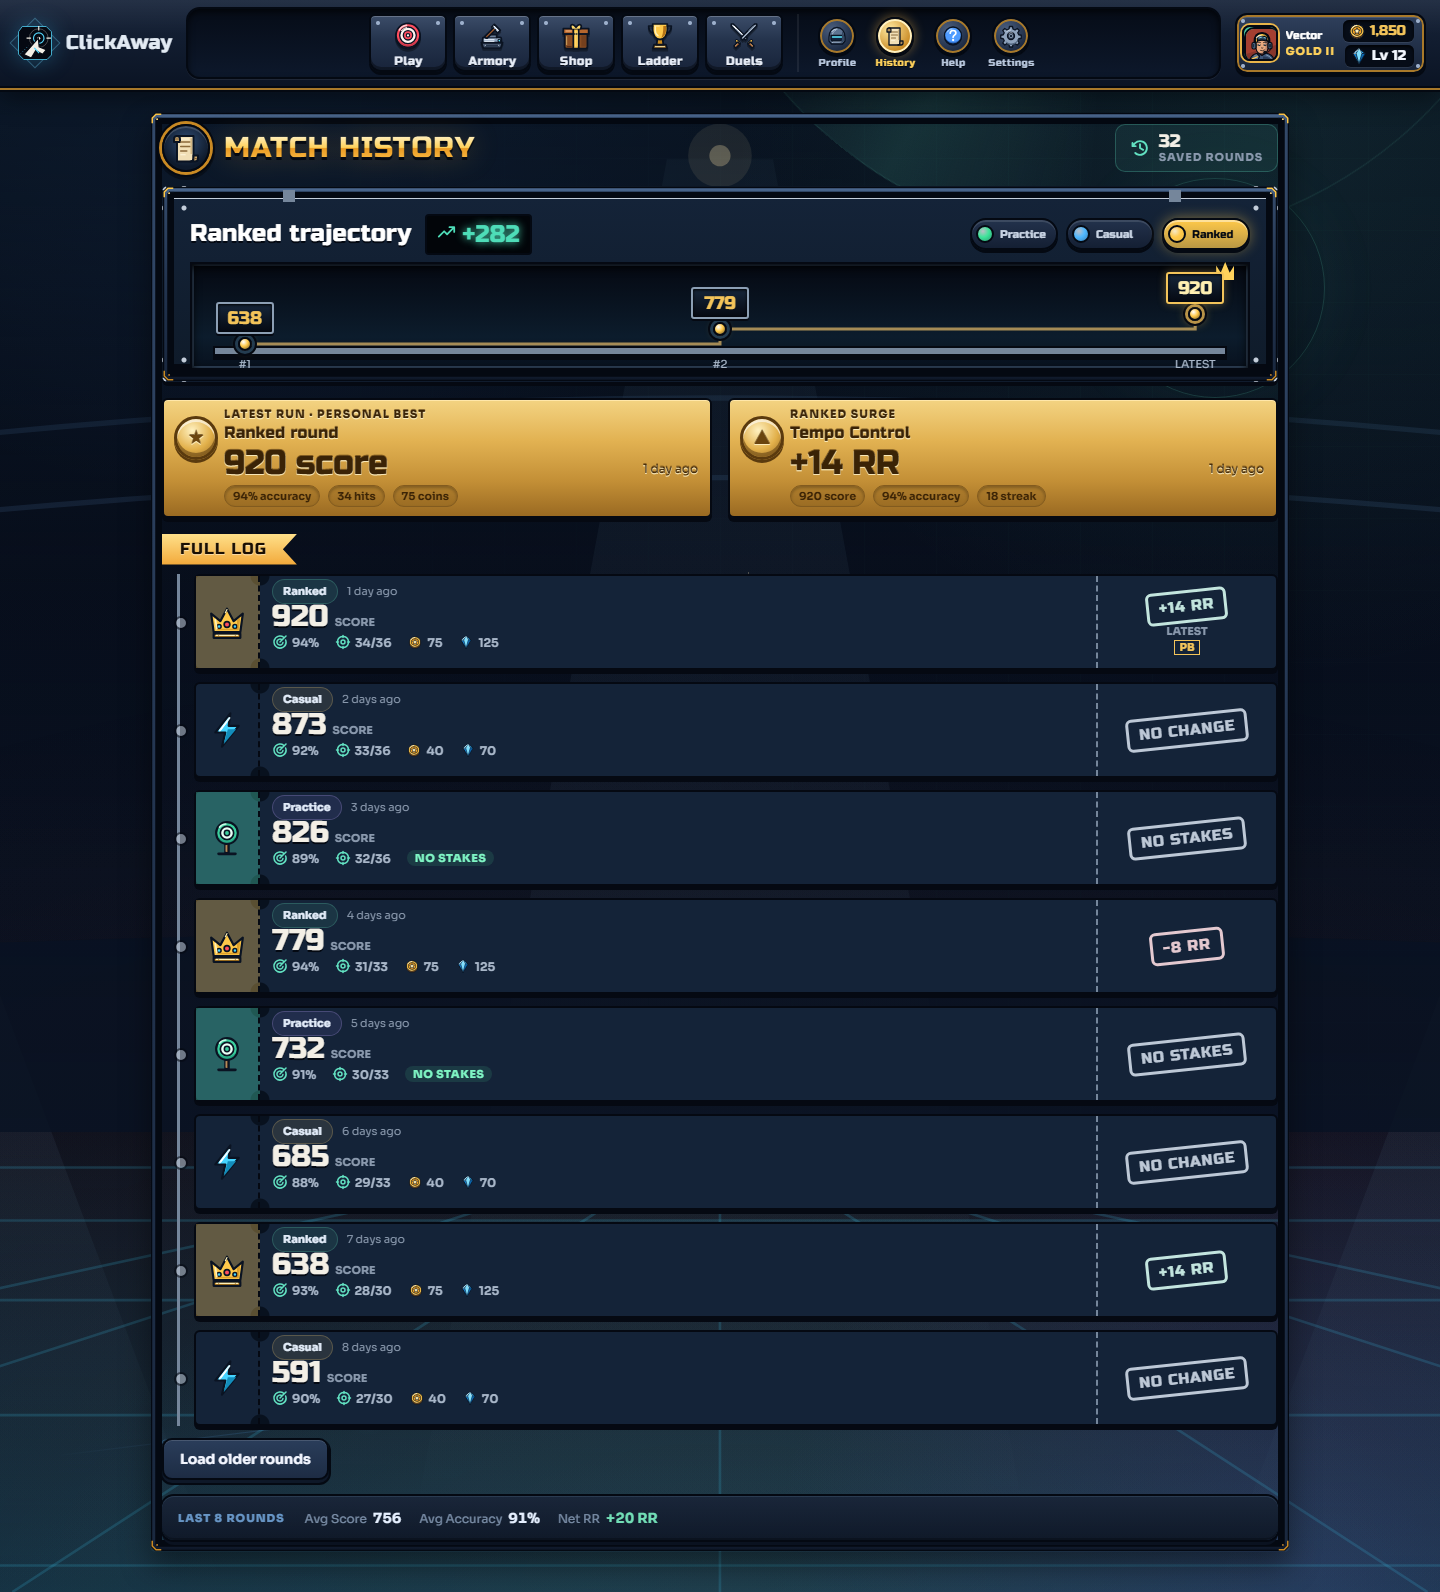
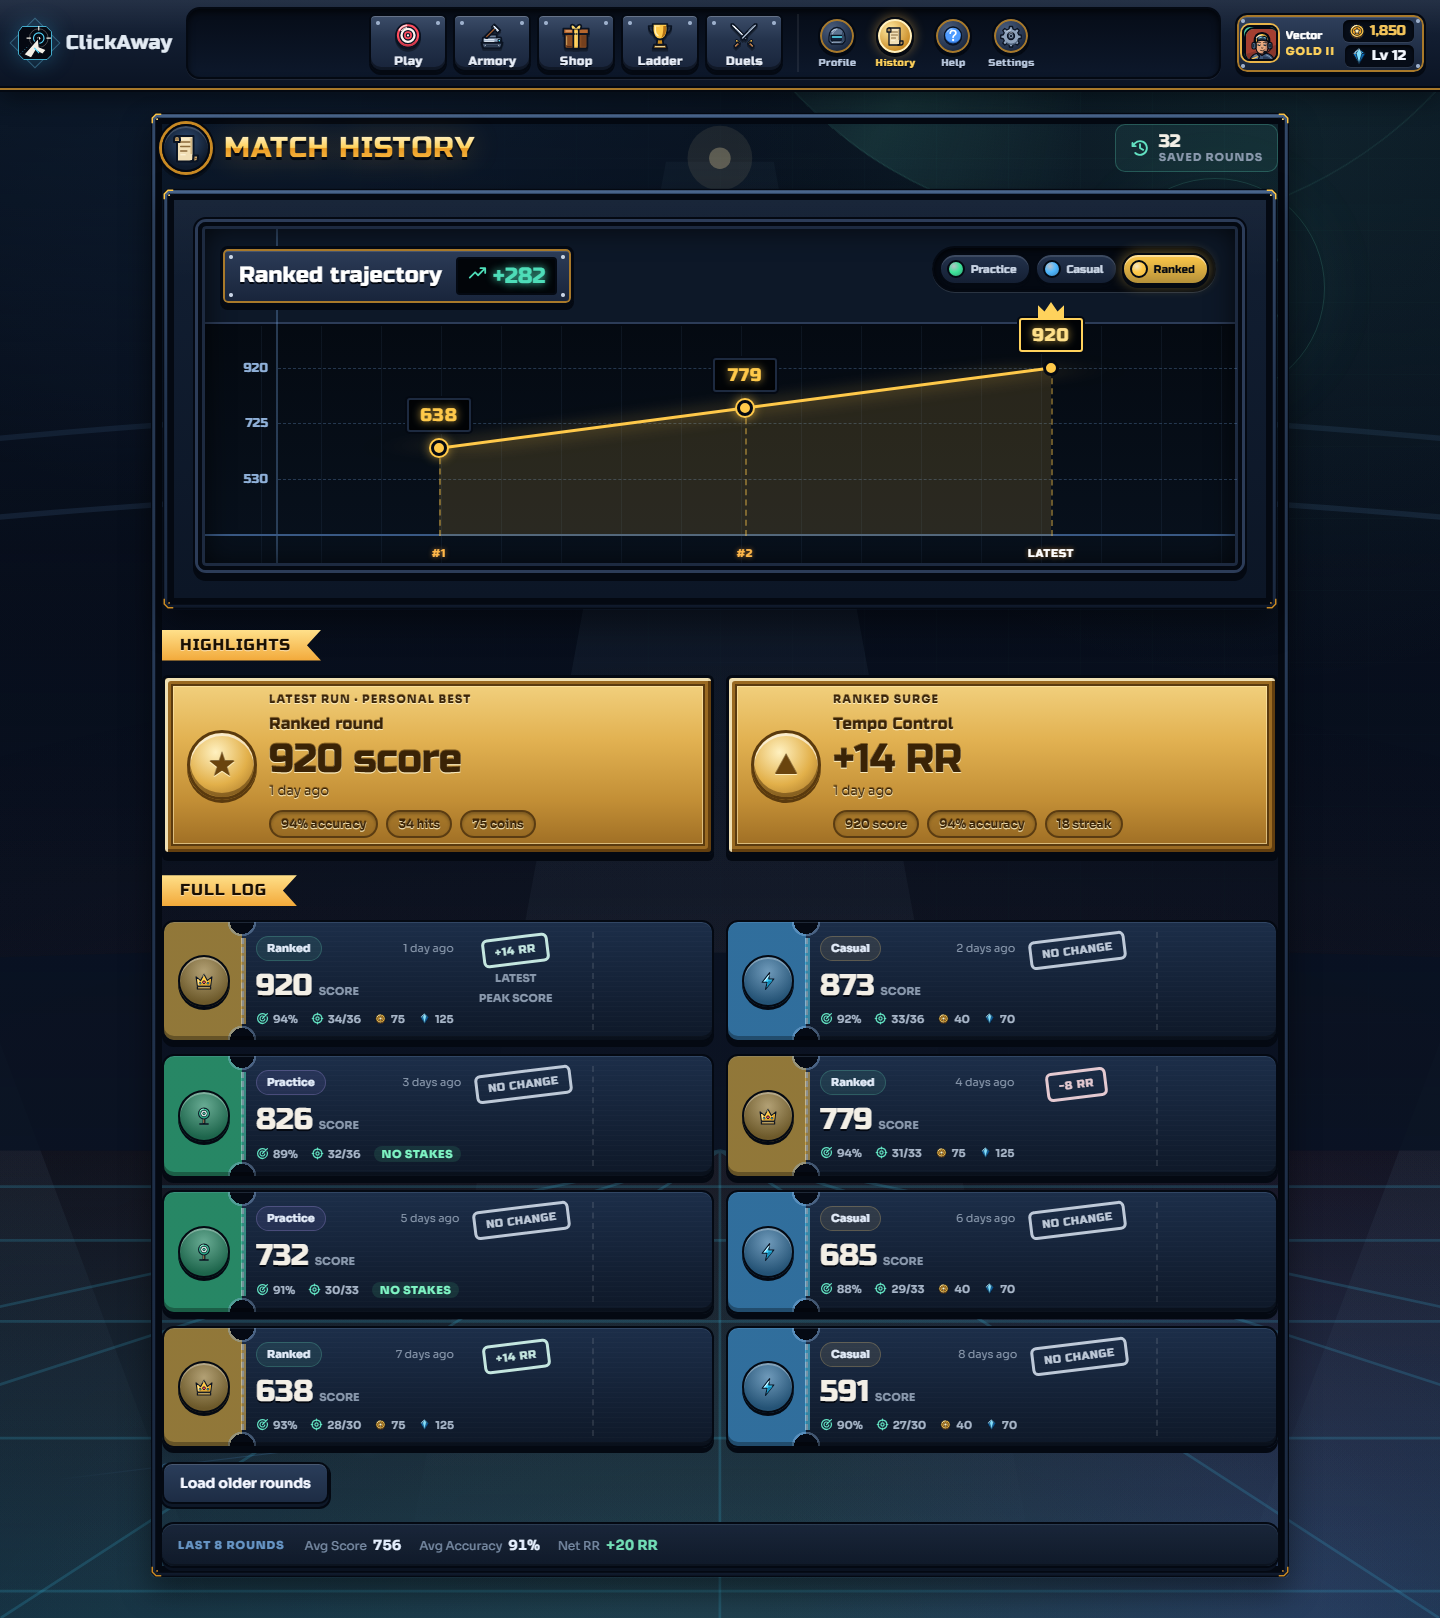
Revert History rebuild: Sol's blind A/B preferred the i13 chart and tickets (old better by 2)
Round 14 now changes screens 14, 15, 16 and 20 only.

diff --git a/src/pages/HistoryPage.jsx b/src/pages/HistoryPage.jsx
@@ -1,4 +1,4 @@
-import { useCallback, useMemo, useState } from "react"
+import { useCallback, useMemo, useState } from "react"
 import { Link } from "react-router-dom"
 import {
   ArrowRight,
@@ -132,14 +132,15 @@ function HistoryTrajectory({ rounds = [] }) {
   const modeLabel = TRAJECTORY_MODES.find((mode) => mode.id === modeFilter)?.label ?? "Casual"
   const plottedRounds = rounds.filter((round) => getModeTone(round) === modeFilter).slice(0, 8).reverse()
   const scores = plottedRounds.map((round) => Number(round.score) || 0)
-  const highestScore = Math.max(...scores, 0)
-  const minScore = scores.length ? Math.min(...scores) : 0
-  const range = highestScore - minScore
-  const points = scores.map((value, index) => ({
-    x: scores.length === 1 ? 50 : 5 + index * 90 / (scores.length - 1),
-    y: 80 - (range ? (value - minScore) / range * 30 : 15),
+  const highestScore = Math.max(...scores, 1)
+  const minimumScore = scores.length > 0 ? Math.min(...scores) : 0
+  // Start the scale just under the lowest run so real movement is visible.
+  const lowestScore = Math.max(0, Math.floor((minimumScore - (highestScore - minimumScore) * 0.35) / 10) * 10)
+  const scoreRange = Math.max(1, highestScore - lowestScore)
+  const plotPoints = scores.map((value, index) => ({
+    x: ((index + 0.5) / scores.length) * 100,
+    y: 100 - (34 + ((value - lowestScore) / scoreRange) * 66),
   }))
-  const bestIndex = scores.lastIndexOf(highestScore)
   const scoreChange = scores.length > 1 ? scores.at(-1) - scores[0] : 0
   const trendIcon = scoreChange >= 0
     ? <TrendUp weight="bold" />
@@ -159,15 +160,43 @@ function HistoryTrajectory({ rounds = [] }) {
         </span>
       </div>
 
-      <div className="historyScoreboardTrack">
-        {scores.length === 0 && <p className="historyScoreEmpty">No {modeLabel.toLowerCase()} rounds yet</p>}
-        {scores.length > 1 && <svg className="historyScoreWire" viewBox="0 0 1000 108" preserveAspectRatio="none" aria-hidden="true"><path d={points.map((point, index) => index === 0 ? `M ${point.x * 10} ${point.y}` : `H ${point.x * 10} V ${point.y}`).join(" ")} /></svg>}
-        {plottedRounds.map((round, index) => <div key={round.id} className={`historyScoreSocket ${index === scores.length - 1 ? "isLatest" : ""}`} style={{ left: `${points[index].x}%`, top: `${points[index].y}px`, "--lamp": LINE_TONES[modeFilter], "--socket-y": `${points[index].y}px` }}>
-          {index === bestIndex && <i className="historyClimbCrown" aria-hidden="true" />}
-          <strong>{formatNumber(scores[index])}</strong><span className="historyBulb" aria-hidden="true" />
-          <small>{index === scores.length - 1 ? "Latest" : `#${index + 1}`}</small>
-        </div>)}
-      </div>
+      <ol className="historyClimb" aria-hidden="true">
+        {plottedRounds.length === 0 ? <li className="historyClimbEmpty">No {modeLabel.toLowerCase()} rounds yet</li> : null}
+        {plottedRounds.length > 1 ? (
+          <li className="historyClimbAxis">
+            {[100, 67, 34].map((level) => (
+              <span key={level} style={{ "--axis": `${level}%` }}>
+                {formatNumber(Math.round(lowestScore + ((level - 34) / 66) * scoreRange))}
+              </span>
+            ))}
+          </li>
+        ) : null}
+        {plottedRounds.length > 1 ? (
+          <li className="historyClimbLine" style={{ "--line-tone": LINE_TONES[modeFilter] ?? "#4fb8ff" }}>
+            <svg viewBox="0 0 100 100" preserveAspectRatio="none" focusable="false">
+              <polygon points={`${plotPoints[0].x},100 ${plotPoints.map((point) => `${point.x},${point.y}`).join(" ")} ${plotPoints.at(-1).x},100`} />
+              <polyline points={plotPoints.map((point) => `${point.x},${point.y}`).join(" ")} />
+            </svg>
+          </li>
+        ) : null}
+        {plottedRounds.map((round, index) => {
+          const value = Number(round.score) || 0
+          const height = 34 + ((value - lowestScore) / scoreRange) * 66
+          const isBest = value === highestScore
+          const isLatest = index === plottedRounds.length - 1
+          return (
+            <li
+              key={round.id}
+              className={`historyClimbStep ${getModeToneClassName(round)} ${isBest ? "isBest" : ""} ${isLatest ? "isLatest" : ""}`}
+              style={{ "--climb": `${height}%` }}
+            >
+              <span className="historyClimbMedal">{isBest ? <i className="historyClimbCrown" /> : null}{formatNumber(value)}</span>
+              <span className="historyClimbPillar" />
+              <span className="historyClimbLabel">{isLatest ? "Latest" : `#${index + 1}`}</span>
+            </li>
+          )
+        })}
+      </ol>
 
       <div className="historyTrajectoryLegend isFilter" role="group" aria-label="Trend mode">
         {TRAJECTORY_MODES.map((mode) => (
@@ -226,8 +255,8 @@ function HistoryRoundCard({ round, markers = [] }) {
         </div>
       </div>
       <div className="historyRoundCardOutcome">
-        <span className={`historyRankBadge ${getRankResultToneClassName(round)}`}>{isPractice ? "No stakes" : getRankResultText(round)}</span>
-        {markers.map((marker) => <small key={marker} className={marker === "Peak score" ? "isPB" : ""}>{marker === "Peak score" ? "PB" : marker}</small>)}
+        <span className={`historyRankBadge ${getRankResultToneClassName(round)}`}>{getRankResultText(round)}</span>
+        {markers.map((marker) => <small key={marker}>{marker}</small>)}
       </div>
     </article>
   )
@@ -307,7 +336,7 @@ export default function HistoryPage({
         stats: [
           `${formatPercent(historySnapshot.latestRound.accuracyPercent)} accuracy`,
           `${formatNumber(historySnapshot.latestRound.hits)} hits`,
-          isPracticeRound(historySnapshot.latestRound) ? "No stakes" : `${formatNumber(historySnapshot.latestRound.coinsEarned)} coins`,
+          `${formatNumber(historySnapshot.latestRound.coinsEarned)} coins`,
         ],
         tone: "latest",
       })
@@ -415,6 +444,9 @@ export default function HistoryPage({
 
             {highlightCards.length > 0 ? (
               <section className="historyHighlightsSection" aria-label="Round highlights">
+                <div className="historySectionHeader">
+                  <h2 className="historySectionTitle">Highlights</h2>
+                </div>
                 <div className="historyHighlightsGrid">
                   {highlightCards.map((card) => (
                     <HighlightCard
@@ -558,5 +590,3 @@ export default function HistoryPage({
     </div>
   )
 }
-
-

diff --git a/docs/ui-polish/game-feel/i14-changes.md b/docs/ui-polish/game-feel/i14-changes.md
@@ -1,11 +1,6 @@
 # Round 14 changes (i13 → i14)
 
-Picks came from `i14-decisions.md`. Every claim below passed its ACCEPT line in a 100% crop and a blind before/after check. Only screens 08, 14, 15, 16 and 20 changed; every other file in i14 is a byte-for-byte copy of i13.
-
-## A. History (08)
-- **Scoreboard:** the large line chart is now a compact arena scoreboard. Each run's score sits in a framed window on a wired rail with a socket per run; the latest window glows and carries the crown. No axis, grid or area fill.
-- **Plaques:** the two Highlights plaques sit below the scoreboard at full height (eyebrow, title, a large number, separated chips).
-- **Ticket rail:** the log is a chronological rail of match tickets. Each ticket has a mode-coloured stub with the mode emblem, the score in display type, the stats line, and a perforated right stub with a stamped result (+14 RR / LATEST / PB, NO CHANGE, NO STAKES, −8 RR). Three tickets appear within the first 900px; the latest shows the PB stamp, score, and RR change.
+Picks came from `i14-decisions.md`. Every claim below passed its ACCEPT line in a 100% crop and a blind before/after check. Only screens 14, 15, 16 and 20 changed; every other file in i14 is a byte-for-byte copy of i13.
 
 ## B. Ladder hover card (15)
 - **Card:** a rival scouting card with a steel frame and corner screws. A teal (Platinum) header band carries "Nova" in the display face and a framed portrait medallion with her green visor helmet.
@@ -27,3 +22,6 @@ Picks came from `i14-decisions.md`. Every claim below passed its ACCEPT line in 
 - **Gauges:** the 7-row text table is replaced by seven framed instruments (Aim Window, Shrink Pace, Combo Ramp, Miss Cost, Power Tempo, Min Target, Score Mult). Each shows Active and Ghost values with segmented bars and the delta in the corner, coloured green or red.
 - **Header and tabs:** "COMPARE BENCH · CASUAL" eyebrow over the title; "Bay vs. Bay" and "Mode Matrix" are beveled tabs, the active one in gold.
 - Not claimed: arrows from each rig to every value (the leads join modules to the hub, not to the gauges).
+
+## Not shipped
+- **History rebuild (08):** built, then reverted after the blind check judged the i13 History better (by 2). 08-history is a byte-for-byte copy of i13.
